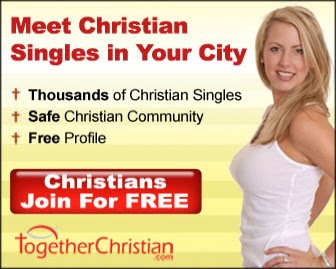
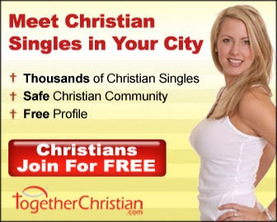
14º develop_mst

diff --git a/AE_1/style.css b/AE_1/style.css
@@ -123,8 +123,9 @@ html {
     }
 
     #barraLateral ul {
+        height: 120px;
         margin-top: 0px;
-        margin-bottom: 0px;
+        margin-bottom: 10px;
         padding: 0px;
     }
     
@@ -154,19 +155,34 @@ html {
         margin-bottom: 0px;
     }
 
+    #divLogo {
+        /*width: 100%;*/
+        /*height: 24%;*/
+        height: 222px;
+        background-image: url(./img/dia2Logo.png);
+        background-position: center;
+        background-repeat: no-repeat;
+        background-size: contain;
+        margin-top: 0px;
+        margin-bottom: 30px;
+    }
+    
     #divPubli {
-        /*width: 272px;*/
-        /*height: 548px;*/
-        width: 100%;
-        height: 548px;
+        /*width: 100%;*/
+        /*height: 24%;*/
+        height: 222px;
         background-image: url(./img/banner_christian.jpeg);
         background-position: center;
         background-repeat: no-repeat;
         background-size: contain;
+        margin-top: 0px;
     }
-
+    
+    /*
     #imgPubli {
+    margin: 10px;
     }
+    */
     
     @media (min-width: 1301px) {
         body {

diff --git a/AE_1/index.html b/AE_1/index.html
@@ -59,6 +59,7 @@
                 <li><img class="imgLista" src="./img/lista.png"><a href="#">Noticia 4</a></li>
                 <li><img class="imgLista" src="./img/lista.png"><a href="#">Noticia 5</a></li>
             </ul>
+            <div id="divLogo"></div>
             <div id="divPubli">
             <!--<img id="imgPubli" src="./img/banner_christian.jpeg">-->
             </div>
